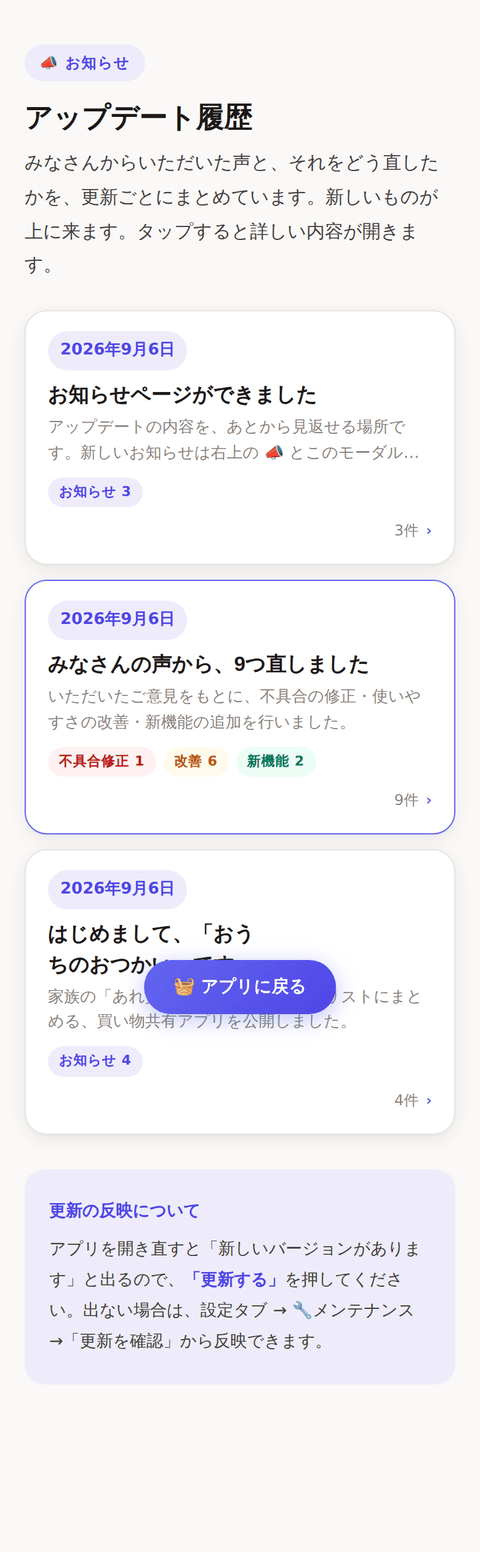
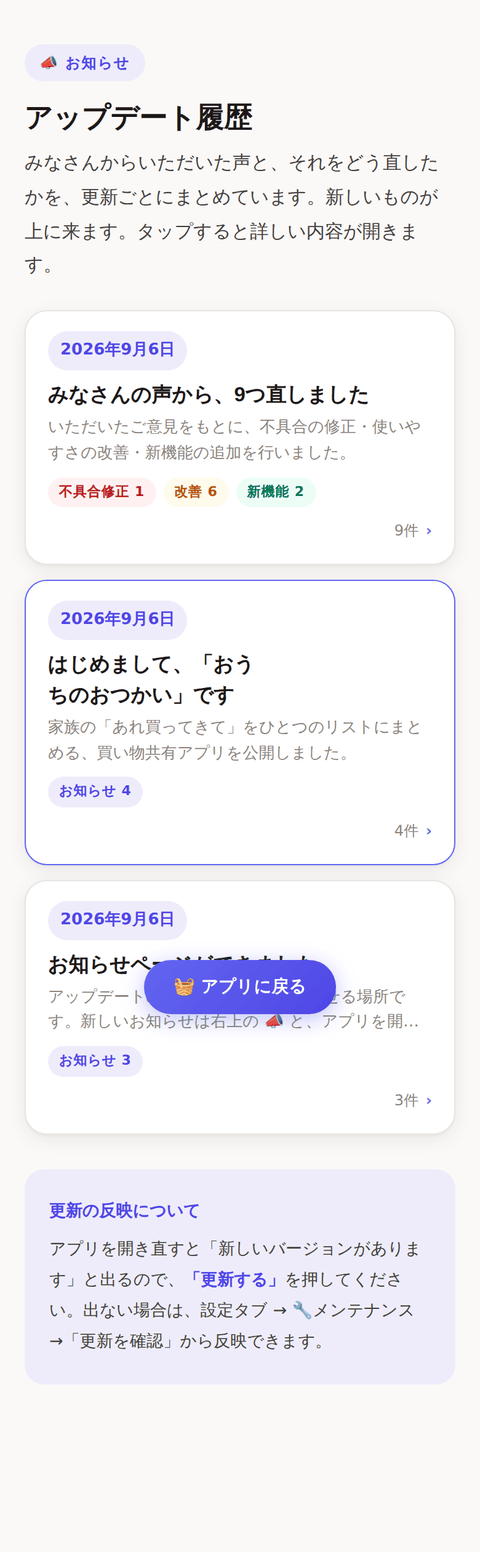
📣 お知らせの並びを「9つ直しました → はじめまして → お知らせページ」に
3件とも同じ日付なので、配列の順がそのまま一覧の並びになる。
先頭が「みなさんの声から、9つ直しました」になるため、右上の赤丸と
起動時のモーダルはこの記事を指す。お知らせページの記事の導入文から
「このモーダル」の言い回しを外し、モーダル・一覧のスクショを撮り直した。

Claude-Session: https://claude.ai/code/session_013Sh1XBCpeNBzayjahQXFzf

diff --git a/news.js b/news.js
@@ -19,23 +19,6 @@
 //     shots : 画面のパス配列（任意。docs/screenshots/news/<日付>/ に 480px幅・256色で置く）
 const NEWS = [
   {
-    id: "2026-09-06-news",
-    date: "2026-09-06",
-    title: "お知らせページができました",
-    lead: "アップデートの内容を、あとから見返せる場所です。新しいお知らせは右上の 📣 とこのモーダルでお伝えします。",
-    items: [
-      { kind: "info", label: "見方", title: "右上の 📣 を押すと、お知らせの一覧が開きます",
-        body: "アプリ右上に <b>🏆 ミッション・📣 お知らせ・？ 使い方</b> の3つが並びました。📣 を押すと一覧が開き、日付とタイトルを見渡せます。行をタップすると、その更新の「きっかけになった声」と「どう変わったか」を画面つきで読めます。紹介ページのフッターの「お知らせ」からも同じ一覧に行けます。",
-        shots: ["docs/screenshots/news/2026-09/news-list.png"] },
-      { kind: "info", label: "通知", title: "新しいお知らせは、赤い丸と1回だけのモーダルでお伝えします",
-        body: "新しいお知らせがあると 📣 に<b>赤い丸</b>が付きます。あわせて、アプリを開いた直後に<b>1回だけ</b>このような小さな画面（モーダル）でタイトルをお知らせします。「読む」で一覧へ、「あとで」なら閉じるだけです（赤い丸は読むまで残ります）。同じお知らせを何度もは出しません。",
-        shots: ["docs/screenshots/news/2026-09/news-modal.png"] },
-      { kind: "info", label: "これから", title: "更新のたびに、ここに積み上がっていきます",
-        body: "アプリを直したり機能を足したりするごとに、1件ずつここへ追加します。「こうしてほしい」の声が、どう形になったかを追いかけられるページにしていきます。",
-        shots: [] },
-    ],
-  },
-  {
     id: "2026-09-05",
     date: "2026-09-06",
     title: "みなさんの声から、9つ直しました",
@@ -96,6 +79,23 @@ const NEWS = [
         shots: ["docs/screenshots/02-lowstock.png"] },
       { kind: "info", label: "困ったとき", title: "お問い合わせはこちらから",
         body: "不具合・使いにくいところ・こうしてほしい、は <a href=\"./contact.html\">お問い合わせフォーム</a> から送ってください（設定タブ → 📄その他 → ✉ お問い合わせ にもあります）。いただいた声は、このお知らせで「どう直したか」とあわせてご報告します。",
+        shots: [] },
+    ],
+  },
+  {
+    id: "2026-09-06-news",
+    date: "2026-09-06",
+    title: "お知らせページができました",
+    lead: "アップデートの内容を、あとから見返せる場所です。新しいお知らせは右上の 📣 と、アプリを開いたときの小さな画面（モーダル）でお伝えします。",
+    items: [
+      { kind: "info", label: "見方", title: "右上の 📣 を押すと、お知らせの一覧が開きます",
+        body: "アプリ右上に <b>🏆 ミッション・📣 お知らせ・？ 使い方</b> の3つが並びました。📣 を押すと一覧が開き、日付とタイトルを見渡せます。行をタップすると、その更新の「きっかけになった声」と「どう変わったか」を画面つきで読めます。紹介ページのフッターの「お知らせ」からも同じ一覧に行けます。",
+        shots: ["docs/screenshots/news/2026-09/news-list.png"] },
+      { kind: "info", label: "通知", title: "新しいお知らせは、赤い丸と1回だけのモーダルでお伝えします",
+        body: "新しいお知らせがあると 📣 に<b>赤い丸</b>が付きます。あわせて、アプリを開いた直後に<b>1回だけ</b>このような小さな画面（モーダル）でタイトルをお知らせします。「読む」で一覧へ、「あとで」なら閉じるだけです（赤い丸は読むまで残ります）。同じお知らせを何度もは出しません。",
+        shots: ["docs/screenshots/news/2026-09/news-modal.png"] },
+      { kind: "info", label: "これから", title: "更新のたびに、ここに積み上がっていきます",
+        body: "アプリを直したり機能を足したりするごとに、1件ずつここへ追加します。「こうしてほしい」の声が、どう形になったかを追いかけられるページにしていきます。",
         shots: [] },
     ],
   },
